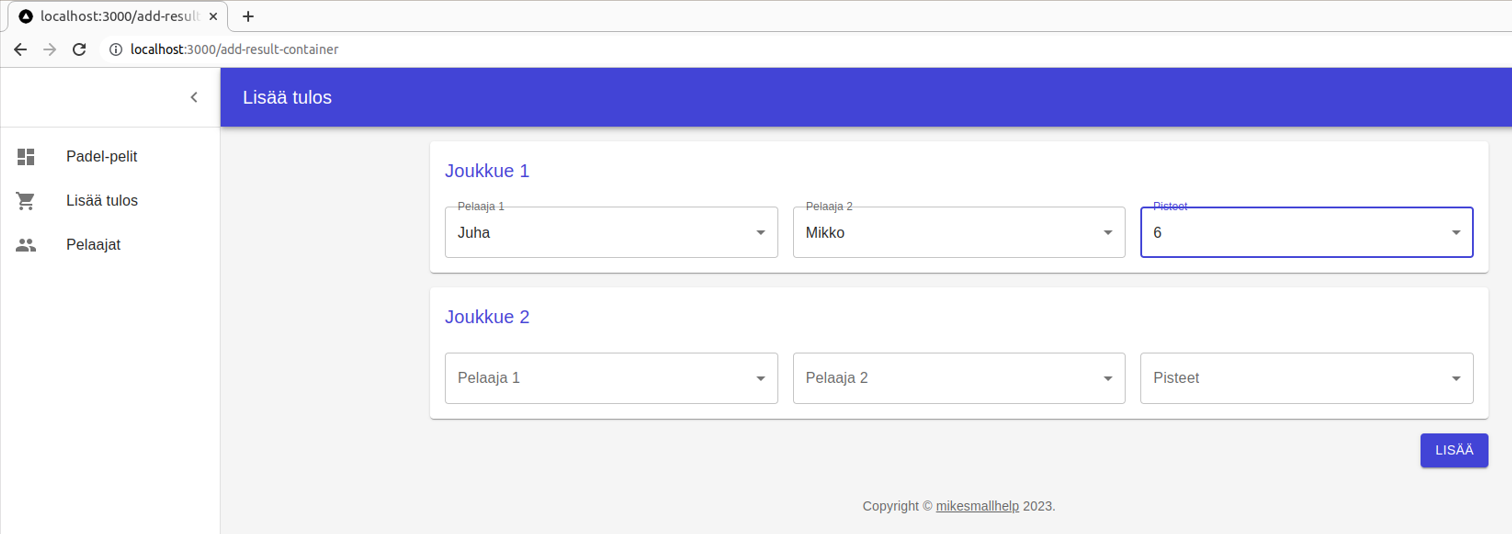
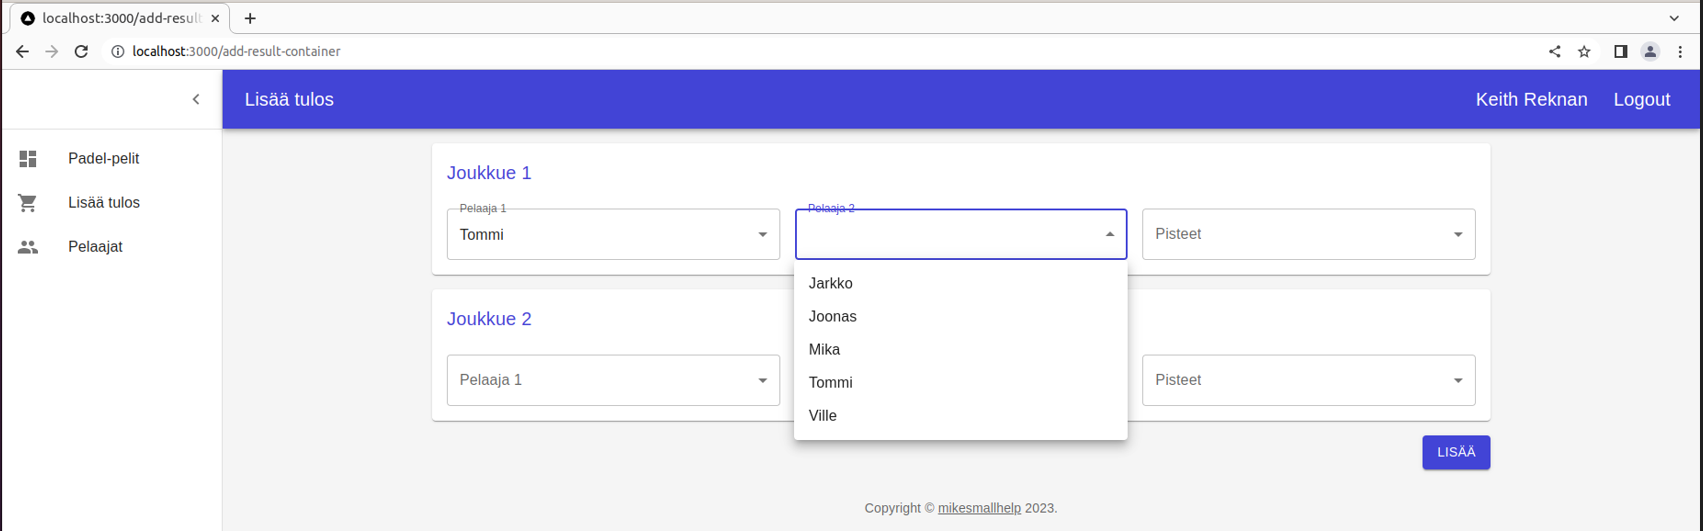
Added the new pictures

diff --git a/README.md b/README.md
@@ -1,14 +1,18 @@
-# Padel ranking application version 24.4.2023 18:32
+# Padel ranking application
 
 ## Application
 
-With the simple padel ranking application you can register game results and the application calculates ranking. 
+With a simple padel ranking application you can register game results and the application calculates ranking. 
 
-Example of the player ranking calculation: When the team of the player wins four sets his ranking goes up with four points.
+Example of a player ranking calculation: When a team of the player wins four sets his ranking goes up with four points.
+
+First you have to log into the application with Auth0 or Gmail authentication:
+
+![Log in](doc/login.png)
 
 At home page you can see the ranking and the played games:
 
-![First page](doc/padel-games.png)
+![Home page](doc/padel-games.png)
 
 You can add a new result in this page:
 
